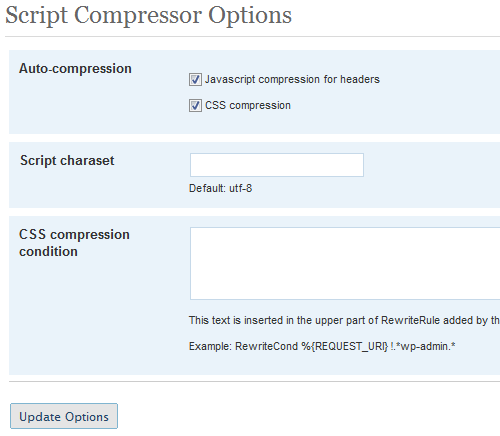
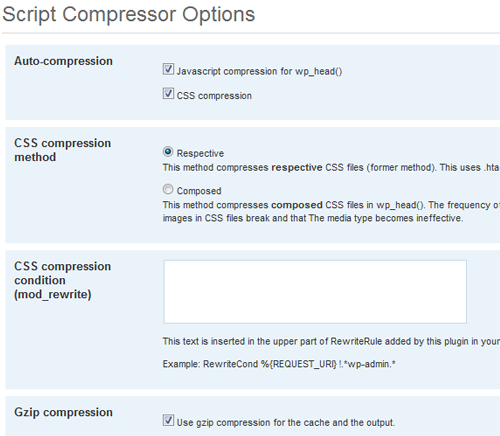
Update to 1.4.
git-svn-id: https://plugins.svn.wordpress.org/script-compressor/trunk@56630 b8457f37-d9ea-0310-8a92-e5e31aec5664

diff --git a/script-compressor.php b/script-compressor.php
@@ -3,7 +3,7 @@
 Plugin Name: Script Compressor
 Plugin URI: http://rp.exadge.com/2008/04/30/script-compressor/
 Description: This plugin compresses javascript files and css files.
-Version: 1.3.1
+Version: 1.4
 Author: Regen
 Author URI: http://rp.exadge.com
 */
@@ -386,8 +386,8 @@ class ScriptCompressor {
 </form>
 <h2><?php _e('Instructions', $this->domain) ?></h2>
 <h3><?php _e('Additional template tags', $this->domain) ?></h3>
-<p><?php _e('Javascripts and CSS between <code>&lt;?php function_exists(\'sc_comp_start\') or sc_comp_start() ?&gt;</code> and <code>&lt;?php function_exists(\'sc_comp_end\') or sc_comp_end() ?&gt;</code> will be compressed by this plugin.', $this->domain) ?></p>
-<p><?php _e('e.g.', $this->domain) ?><br /><code style="display: block; padding: 6px; background-color: #eeeeee; border: #dfdfdf solid 1px;"><?php _e('&lt;?php function_exists(\'sc_comp_start\') or sc_comp_start() ?&gt;<br />&lt;script type="text/javascript" src="foo.js"&gt;&lt;/script&gt;<br />&lt;script type="text/javascript" src="bar.js"&gt;&lt;/script&gt;<br />&lt;?php function_exists(\'sc_comp_end\') or sc_comp_end() ?&gt;', $this->domain) ?></code></p>
+<p><?php _e('Javascripts and CSS between <code>&lt;?php sc_comp_start() ?&gt;</code> and <code>&lt;?php sc_comp_end() ?&gt;</code> will be compressed by this plugin.', $this->domain) ?></p>
+<p><?php _e('e.g.', $this->domain) ?><br /><code style="display: block; padding: 6px; background-color: #eeeeee; border: #dfdfdf solid 1px;"><?php _e('&lt;?php sc_comp_start() ?&gt;<br />&lt;script type="text/javascript" src="foo.js"&gt;&lt;/script&gt;<br />&lt;script type="text/javascript" src="bar.js"&gt;&lt;/script&gt;<br />&lt;?php sc_comp_end() ?&gt;', $this->domain) ?></code></p>
 <p><?php _e('If you check "Javascript compression for headers", the contents of wp_head() will be compressed automatically.', $this->domain) ?></p>
 <h2><?php _e('Notes', $this->domain) ?></h2>
 <ul>
